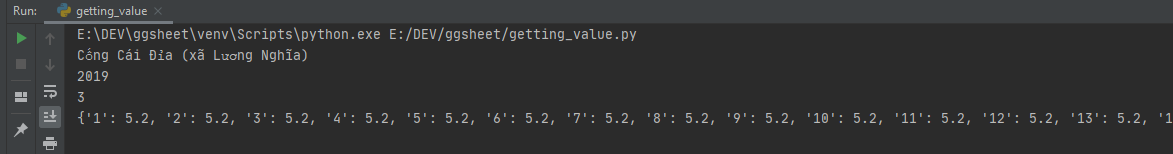
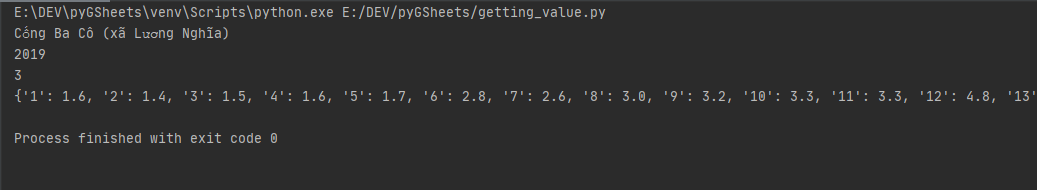
ok

diff --git a/getting_value.py b/getting_value.py
@@ -38,16 +38,16 @@ range_data = worksheet.get('A6:AG28', major_dimension='COLUMNS')
 row6 = worksheet.row_values(6)
 danhsachNgay = row6[2:]
 
-row10 = worksheet.row_values(10)
-danhsachGiaTri = row10[2:]
+row8 = worksheet.row_values(8)
+danhsachGiaTri = row8[2:]
 
 dulieu_theongay = {}
 
-for ngay in danhsachNgay:
-    for giatri in danhsachGiaTri:
-        dulieu_theongay[ngay] = checkNull(giatri)
 
-tentram = range_data[1][1]
+for ngay, giatri in zip(danhsachNgay, danhsachGiaTri):
+    dulieu_theongay[ngay] = checkNull(giatri)
+
+tentram = range_data[1][2]
 
 # get data
 data_tram = DataTram(tentram, namBaoCao, thangBaoCao, dulieu_theongay)
